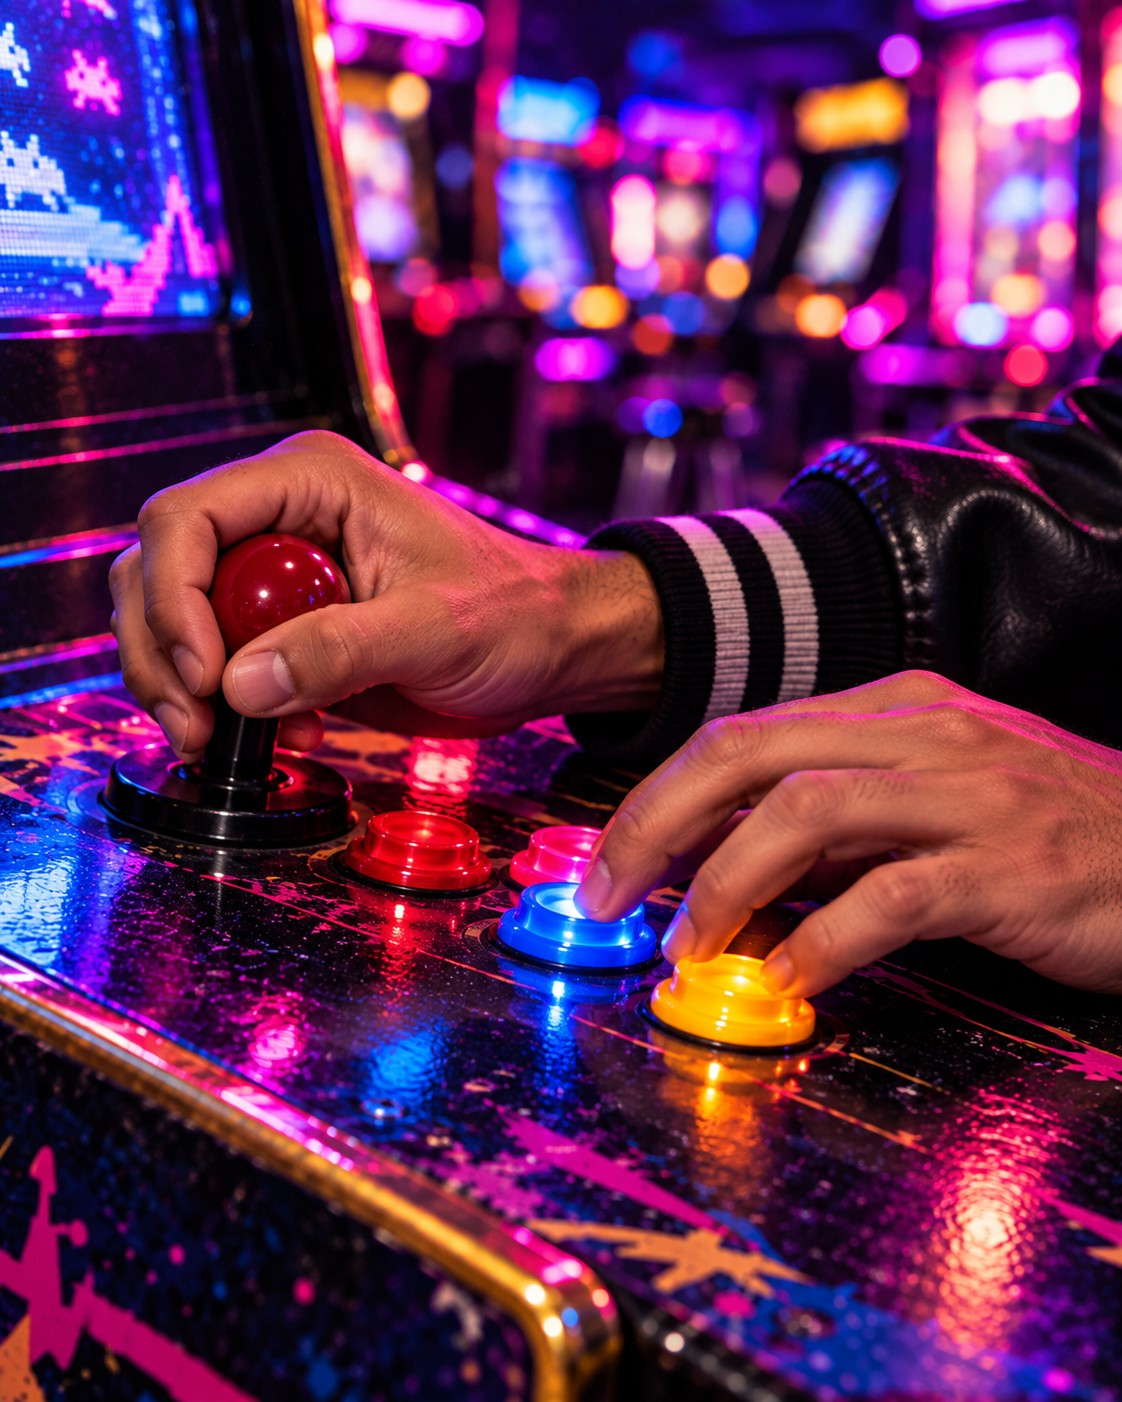
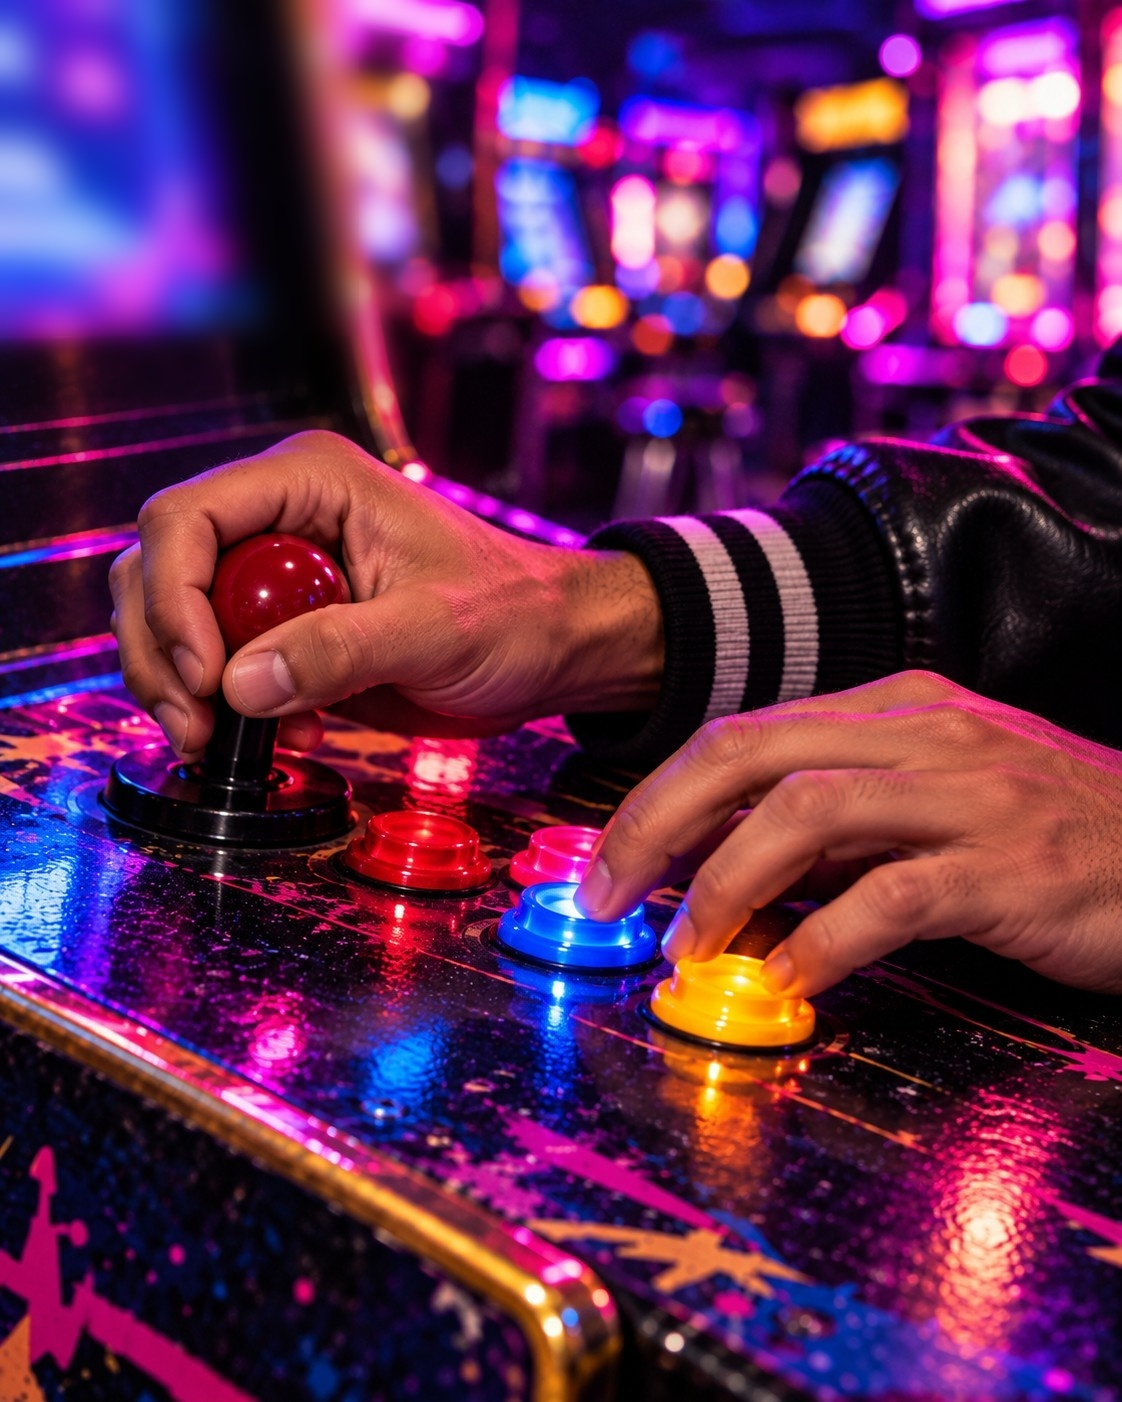
portfólio arcade (Dia das Crianças) pronto para aprovação; capa com palavra gigante no portfólio
Claude-Session: https://claude.ai/code/session_01TvwWc1iLazXWYXqHSXdGzc

Changed region(s): [[0.0, 0.0, 0.2496, 0.3374], [0.2184, 0.0, 0.4055, 0.3067], [0.2496, 0.3067, 0.3119, 0.3374]]

diff --git a/src/render_portfolio_foto.py b/src/render_portfolio_foto.py
@@ -18,7 +18,7 @@ FONTS = "".join(
 def fmt(t, cor): return re.sub(r"\*(.+?)\*", rf'<em style="color:{cor};font-style:normal">\1</em>', html.escape(t))
 
 BASE = lambda cor: f"""{FONTS}*{{margin:0;padding:0;box-sizing:border-box}}
-body{{width:1080px;height:1350px;overflow:hidden;position:relative;background:#120d09;color:#fff;font-family:'Inter','Helvetica',sans-serif}}
+body{{width:1080px;height:1350px;overflow:hidden;position:relative;background:#0b0910;color:#fff;font-family:'Inter','Helvetica',sans-serif}}
 .foot{{position:absolute;left:80px;right:80px;bottom:64px;display:flex;justify-content:space-between;font-family:'Mono';font-size:20px;letter-spacing:.15em;color:#ffffffcc;z-index:5}}
 .acc{{color:{cor}}}"""
 
@@ -46,6 +46,18 @@ def bastidor(d, pasta, n):
         f'<div class="mon"><div class="scr"><div class="bar"><span class="dot"></span><span class="dot"></span><span class="dot"></span>&nbsp;&nbsp;campanha_conceito / peças</div><div class="row">{thumbs}</div></div></div>'
         f'<div class="stand"></div><div class="base"></div><div class="kb"></div>'
         f'<div class="sub">{html.escape(b["sub"])}</div>'
+        f'<div class="foot"><span>ARRASTE PRO LADO &rarr;</span><span>@SITH.IA.OFICIAL</span></div></body></html>')
+
+def capa_foto(d, pasta, n):
+    """Capa no padrão aprovado (09/10): foto com palavra gigante atrás da pessoa (feita com src/capa_palavra.py)."""
+    cor, c = d["cor"], d["capa"]
+    return (f'<html><head><meta charset="utf-8"><style>{BASE(cor)}'
+        f'.img{{position:absolute;left:0;top:0;width:1080px;height:1350px;object-fit:cover}}'
+        f'.shade{{position:absolute;inset:0;background:linear-gradient(180deg,#0000 0,#0000 55%,#000c 82%,#000 100%)}}'
+        f'.tag{{position:absolute;left:80px;bottom:330px;font-family:Mono;font-size:24px;letter-spacing:.3em;color:{cor};text-shadow:0 2px 14px #000}}'
+        f'.tit{{position:absolute;left:80px;right:80px;bottom:150px;font-family:Anton;font-size:84px;line-height:1.02;text-transform:uppercase;text-shadow:0 6px 40px #000c}}'
+        f'</style></head><body><img class="img" src="{uri(pasta, c["imagem"])}"><div class="shade"></div>'
+        f'<div class="tag">{html.escape(c["tag"])}</div><div class="tit">{fmt(c["titulo"], cor)}</div>'
         f'<div class="foot"><span>ARRASTE PRO LADO &rarr;</span><span>@SITH.IA.OFICIAL</span></div></body></html>')
 
 def peca(d, pasta, n, chave, idx, estilo):
@@ -76,8 +88,8 @@ def processo(d, pasta, n):
 def cta(d, pasta, n):
     cor, c = d["cor"], d["cta"]
     return (f'<html><head><meta charset="utf-8"><style>{BASE(cor)}'
-        f'body{{background:radial-gradient(ellipse at 50% 80%,#3a2512 0,#120d09 70%)}}'
-        f'.tit{{position:absolute;top:300px;left:80px;right:80px;font-family:Anton;font-size:120px;line-height:1.03;text-transform:uppercase}}'
+        f'body{{background:radial-gradient(ellipse at 50% 80%,{cor}40 0,#0b0910 70%)}}'
+        f'.tit{{position:absolute;top:300px;left:80px;right:80px;font-family:Anton;font-size:104px;line-height:1.03;text-transform:uppercase}}'
         f'.btn{{position:absolute;top:900px;left:80px;background:{cor};color:#1a1008;font-family:Mono;font-weight:700;font-size:32px;letter-spacing:.18em;padding:28px 56px;border-radius:70px}}'
         f'.nota{{position:absolute;top:1060px;left:80px;right:80px;font-family:Mono;font-size:24px;letter-spacing:.08em;color:#ffffffaa}}'
         f'</style></head><body><div class="tit">{fmt(c["titulo"], cor)}</div><div class="btn">{html.escape(c["botao"])}</div>'
@@ -90,7 +102,7 @@ def main(path):
     out = ROOT / "criativos/gerados" / Path(d["pasta_imagens"]).name / d["id"]; out.mkdir(parents=True, exist_ok=True)
     cover = "width:1080px;height:1350px;object-fit:cover;left:0;top:0"
     pessoa = d.get("pessoa_estilo", "width:1250px;height:auto;left:-250px;top:-250px")  # burger: empurra o letreiro do fundo pra fora do quadro
-    slides = [bastidor(d, pasta, 1), peca(d, pasta, 2, "produto", 0, cover), peca(d, pasta, 3, "pessoa", 1, pessoa),
+    slides = [capa_foto(d, pasta, 1) if d.get("capa") else bastidor(d, pasta, 1), peca(d, pasta, 2, "produto", 0, cover), peca(d, pasta, 3, "pessoa", 1, pessoa),
               peca(d, pasta, 4, "detalhe", 2, cover), processo(d, pasta, 5), cta(d, pasta, 6)]
     with sync_playwright() as p:
         br = p.chromium.launch(); pg = br.new_page(viewport={"width": 1080, "height": 1350})

diff --git a/src/capa_palavra.py b/src/capa_palavra.py
@@ -3,7 +3,7 @@
 Recorta a pessoa da foto (rembg), põe a palavra entre o fundo e a pessoa e salva um JPEG 1080x1350.
 Uso: python3 src/capa_palavra.py <foto> <saida.jpg> "GPT-6" [cor_palavra] [topo_px] [tamanho_px]
 Requer: pip install "rembg[cpu]" (baixa o modelo isnet-general-use na 1a vez)."""
-import base64, io, sys
+import base64, io, os, sys
 from pathlib import Path
 from PIL import Image
 from playwright.sync_api import sync_playwright
@@ -21,7 +21,7 @@ def main(foto, saida, palavra, cor="#ffffff", topo=120, tam=430):
     else:
         nh = int(w / alvo); im = im.crop((0, 0, w, nh))
     im = im.resize((1080, 1350), Image.LANCZOS)
-    cut = remove(im, session=new_session("isnet-general-use"))
+    cut = remove(im, session=new_session(os.environ.get("REMBG_MODEL", "isnet-general-use")))
     from PIL import ImageFilter  # encolhe a borda 2px para não sobrar halo do fundo
     a = cut.getchannel("A").filter(ImageFilter.MinFilter(5)).filter(ImageFilter.GaussianBlur(1)); cut.putalpha(a)
     bf, bc = io.BytesIO(), io.BytesIO()
